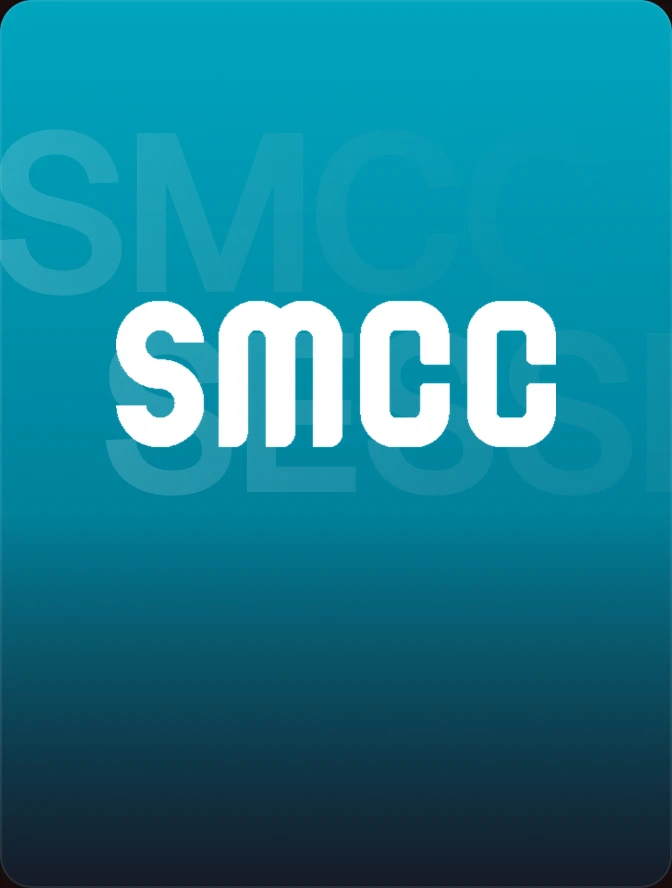
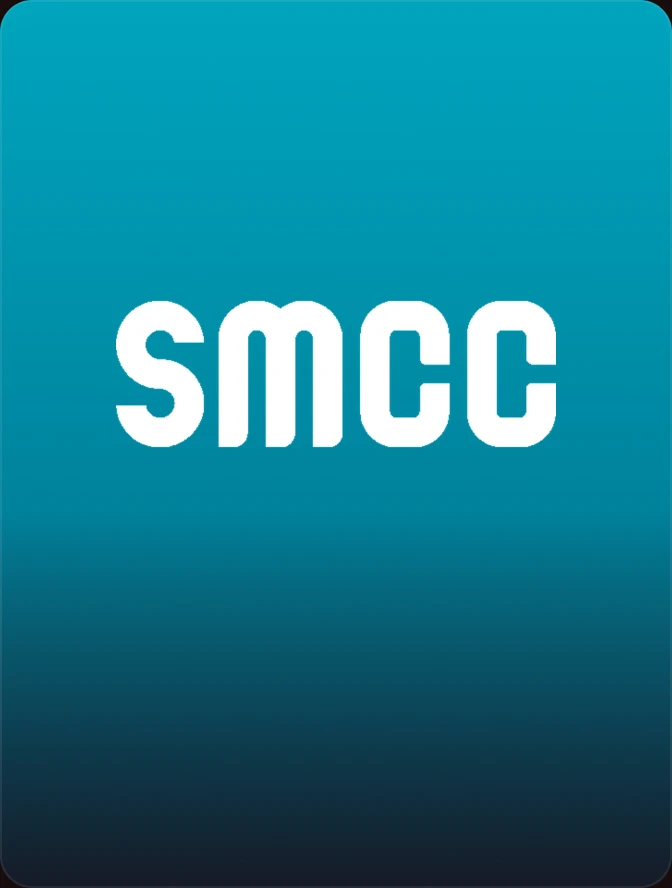
라인업: SMCC 카드를 피그마 수정본으로(배경 글자 제거)
Claude-Session: https://claude.ai/code/session_01R7psaqm8m7GEAGGww3SgQz

diff --git a/index.html b/index.html
@@ -967,7 +967,7 @@ try{ if('scrollRestoration' in history) history.scrollRestoration='manual'; }cat
   const cardHTML=(r,clone)=>{ const ti=clone?' tabindex="-1" aria-hidden="true"':'';
     if(r[0]==='soon') return `<a class="l-card soon" href="${BOOKL}" target="_blank" rel="noopener"${ti}><div class="l-top"><span>LINEUP</span><b>COMING SOON</b></div><div class="soon-mid"><svg viewBox="0 0 24 24" width="44" height="44" aria-hidden="true"><path d="M12 1.5C12.7 7.4 16.6 11.3 22.5 12C16.6 12.7 12.7 16.6 12 22.5C11.3 16.6 7.4 12.7 1.5 12C7.4 11.3 11.3 7.4 12 1.5Z" fill="#fff"/></svg><h3>더 많은 연사가<br>곧 공개됩니다</h3></div><div class="l-bottom"><span class="l-book">롱진콘 신청하기 ↗</span></div></a>`;
     const [f,n,d,c,dt,t,[x,y,w]]=r;
-    return `<a class="l-card ${t}${r[8]?' duo':''}${n.includes(' · ')?' multi':''}" href="${f==='smcc_lu'?'#program':BOOKL}"${f==='smcc_lu'?'':' target="_blank" rel="noopener"'}${ti}><div class="l-type" aria-hidden="true"><span>${WORD[f][0]}</span><span>${WORD[f][1]}</span></div>${r[8]?`<img src="img/${r[8][0]}.webp?v=3" alt="" loading="lazy" style="left:${r[8][1]}%;top:${r[8][2]}%;width:${r[8][3]}%;filter:none">`:''}<img src="img/${f}.webp${f==='ceo_lu'?'?v=4':(f==='trio_lu'||f==='woo_duo'||f==='smcc_lu')?'?v=1':''}" alt="${clone?'':n}" loading="lazy" style="left:${x}%;top:${y}%;width:${w}%${(f==='ceo_lu'||f==='trio_lu'||f==='woo_duo'||f==='smcc_lu')?';filter:none':''}">${r[8]?'<div style="position:absolute;left:-5.95%;top:66.89%;width:108.33%;height:36.71%;background:linear-gradient(rgba(14,46,90,0),#0E2E5A);pointer-events:none"></div>':''}${(f==='trio_lu'||f==='woo_duo'||f==='smcc_lu')?'':'<div class="scrim"></div>'}<div class="l-top"><span>${c}</span><b>${dt}</b></div><div class="l-bottom"><h3>${n}</h3><p>${d}</p><span class="l-book">${f==='smcc_lu'?'SMCC 별도 모집':'예매하기 ↗'}</span></div></a>`; };
+    return `<a class="l-card ${t}${r[8]?' duo':''}${n.includes(' · ')?' multi':''}" href="${f==='smcc_lu'?'#program':BOOKL}"${f==='smcc_lu'?'':' target="_blank" rel="noopener"'}${ti}><div class="l-type" aria-hidden="true"><span>${WORD[f][0]}</span><span>${WORD[f][1]}</span></div>${r[8]?`<img src="img/${r[8][0]}.webp?v=3" alt="" loading="lazy" style="left:${r[8][1]}%;top:${r[8][2]}%;width:${r[8][3]}%;filter:none">`:''}<img src="img/${f}.webp${f==='ceo_lu'?'?v=4':f==='smcc_lu'?'?v=2':(f==='trio_lu'||f==='woo_duo')?'?v=1':''}" alt="${clone?'':n}" loading="lazy" style="left:${x}%;top:${y}%;width:${w}%${(f==='ceo_lu'||f==='trio_lu'||f==='woo_duo'||f==='smcc_lu')?';filter:none':''}">${r[8]?'<div style="position:absolute;left:-5.95%;top:66.89%;width:108.33%;height:36.71%;background:linear-gradient(rgba(14,46,90,0),#0E2E5A);pointer-events:none"></div>':''}${(f==='trio_lu'||f==='woo_duo'||f==='smcc_lu')?'':'<div class="scrim"></div>'}<div class="l-top"><span>${c}</span><b>${dt}</b></div><div class="l-bottom"><h3>${n}</h3><p>${d}</p><span class="l-book">${f==='smcc_lu'?'SMCC 별도 모집':'예매하기 ↗'}</span></div></a>`; };
   // 무한 루프: 같은 카드 세트를 앞·뒤로 한 벌씩 더 붙이고, 가운데 세트를 벗어나면 같은 위치의 가운데 카드로 몰래 점프
   rail.innerHTML=LV.map(c=>cardHTML(c,1)).join('')+LV.map(c=>cardHTML(c,0)).join('')+LV.map(c=>cardHTML(c,1)).join('');
   const cards=()=>rail.querySelectorAll('.l-card');
